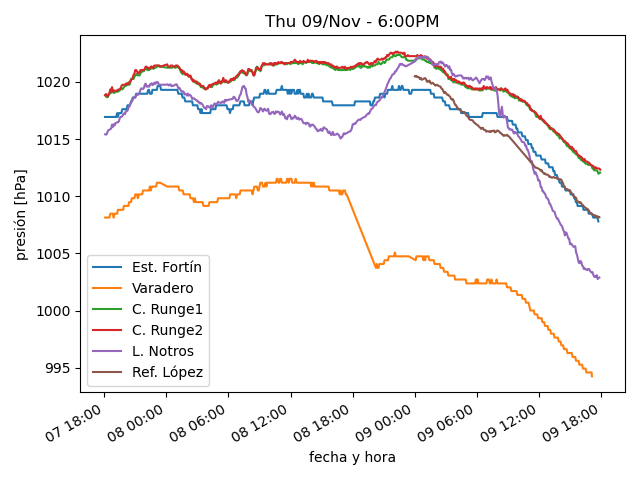
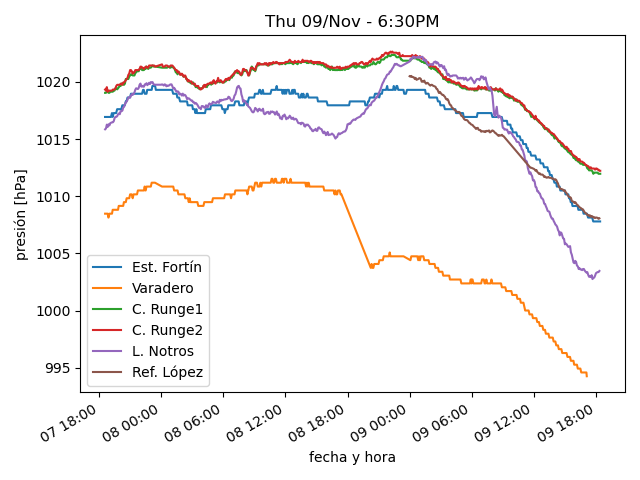
actualiza datos

diff --git a/estaciones/estacion4.html b/estaciones/estacion4.html
@@ -18,32 +18,32 @@
     </tr>
     <tr>
      <td class="stats_data">
-      5:54PM
+      6:24PM
      </td>
     </tr>
     <tr>
      <td class="stats_data">
-      19.4⁰C
+      20.0⁰C
      </td>
     </tr>
     <tr>
      <td class="stats_data">
-      -2.2⁰C
+      -2.0⁰C
      </td>
     </tr>
     <tr>
      <td class="stats_data">
-      23.1%
+      22.5%
      </td>
     </tr>
     <tr>
      <td class="stats_data">
-      1009.31hPa
+      1009.21hPa
      </td>
     </tr>
     <tr>
      <td class="stats_data">
-      1.6/2.4 km/hr NE
+      2.2/3.4 km/hr SSW
      </td>
     </tr>
     <tr>
@@ -53,12 +53,12 @@
     </tr>
     <tr>
      <td class="stats_data">
-      3.0
+      2.0
      </td>
     </tr>
     <tr>
      <td class="stats_data">
-      317.2 W/m²
+      221.1 W/m²
      </td>
     </tr>
    </tbody>

diff --git a/estaciones/estacion3.html b/estaciones/estacion3.html
@@ -18,32 +18,32 @@
     </tr>
     <tr>
      <td class="stats_data">
-      5:54PM
+      6:24PM
      </td>
     </tr>
     <tr>
      <td class="stats_data">
-      18.3⁰C
+      19.0⁰C
      </td>
     </tr>
     <tr>
      <td class="stats_data">
-      -1.8⁰C
+      -0.9⁰C
      </td>
     </tr>
     <tr>
      <td class="stats_data">
-      25.4%
+      26.0%
      </td>
     </tr>
     <tr>
      <td class="stats_data">
-      1000.34hPa
+      1000.24hPa
      </td>
     </tr>
     <tr>
      <td class="stats_data">
-      4.6/6.2 km/hr WNW
+      5.1/6.9 km/hr W
      </td>
     </tr>
     <tr>
@@ -53,12 +53,12 @@
     </tr>
     <tr>
      <td class="stats_data">
-      4.0
+      3.0
      </td>
     </tr>
     <tr>
      <td class="stats_data">
-      399.9 W/m²
+      298.4 W/m²
      </td>
     </tr>
    </tbody>

diff --git a/estaciones/estacion1.html b/estaciones/estacion1.html
@@ -18,22 +18,22 @@
     </tr>
     <tr>
      <td class="stats_data">
-      5:44PM
+      6:24PM
      </td>
     </tr>
     <tr>
      <td class="stats_data">
-      21.4⁰C
+      21.7⁰C
      </td>
     </tr>
     <tr>
      <td class="stats_data">
-      -2.3⁰C
+      -1.4⁰C
      </td>
     </tr>
     <tr>
      <td class="stats_data">
-      20.3%
+      21.3%
      </td>
     </tr>
     <tr>
@@ -43,7 +43,7 @@
     </tr>
     <tr>
      <td class="stats_data">
-      7.4/14.5 km/hr SSW
+      5.3/9.1 km/hr S
      </td>
     </tr>
     <tr>
@@ -53,12 +53,12 @@
     </tr>
     <tr>
      <td class="stats_data">
-      1.8
+      1.0
      </td>
     </tr>
     <tr>
      <td class="stats_data">
-      332.0 W/m²
+      246.0 W/m²
      </td>
     </tr>
    </tbody>

diff --git a/estaciones/estacion6.html b/estaciones/estacion6.html
@@ -18,32 +18,32 @@
     </tr>
     <tr>
      <td class="stats_data">
-      5:50PM
+      6:20PM
      </td>
     </tr>
     <tr>
      <td class="stats_data">
-      12.6⁰C
+      11.4⁰C
      </td>
     </tr>
     <tr>
      <td class="stats_data">
-      -7.5⁰C
+      -5.9⁰C
      </td>
     </tr>
     <tr>
      <td class="stats_data">
-      24.0%
+      29.0%
      </td>
     </tr>
     <tr>
      <td class="stats_data">
-      1009.55hPa
+      1009.45hPa
      </td>
     </tr>
     <tr>
      <td class="stats_data">
-      4.8/11.3 km/hr S
+      6.4/17.7 km/hr SW
      </td>
     </tr>
     <tr>
@@ -58,7 +58,7 @@
     </tr>
     <tr>
      <td class="stats_data">
-      889.0 W/m²
+      880.0 W/m²
      </td>
     </tr>
    </tbody>

diff --git a/estaciones/estacion5.html b/estaciones/estacion5.html
@@ -18,12 +18,12 @@
     </tr>
     <tr>
      <td class="stats_data">
-      5:50PM
+      6:20PM
      </td>
     </tr>
     <tr>
      <td class="stats_data">
-      22.1⁰C
+      20.3⁰C
      </td>
     </tr>
     <tr>
@@ -33,17 +33,17 @@
     </tr>
     <tr>
      <td class="stats_data">
-      24.0%
+      27.0%
      </td>
     </tr>
     <tr>
      <td class="stats_data">
-      1005.45hPa
+      1006.03hPa
      </td>
     </tr>
     <tr>
      <td class="stats_data">
-      1.1/6.1 km/hr SSE
+      0.0/0.0 km/hr N
      </td>
     </tr>
     <tr>
